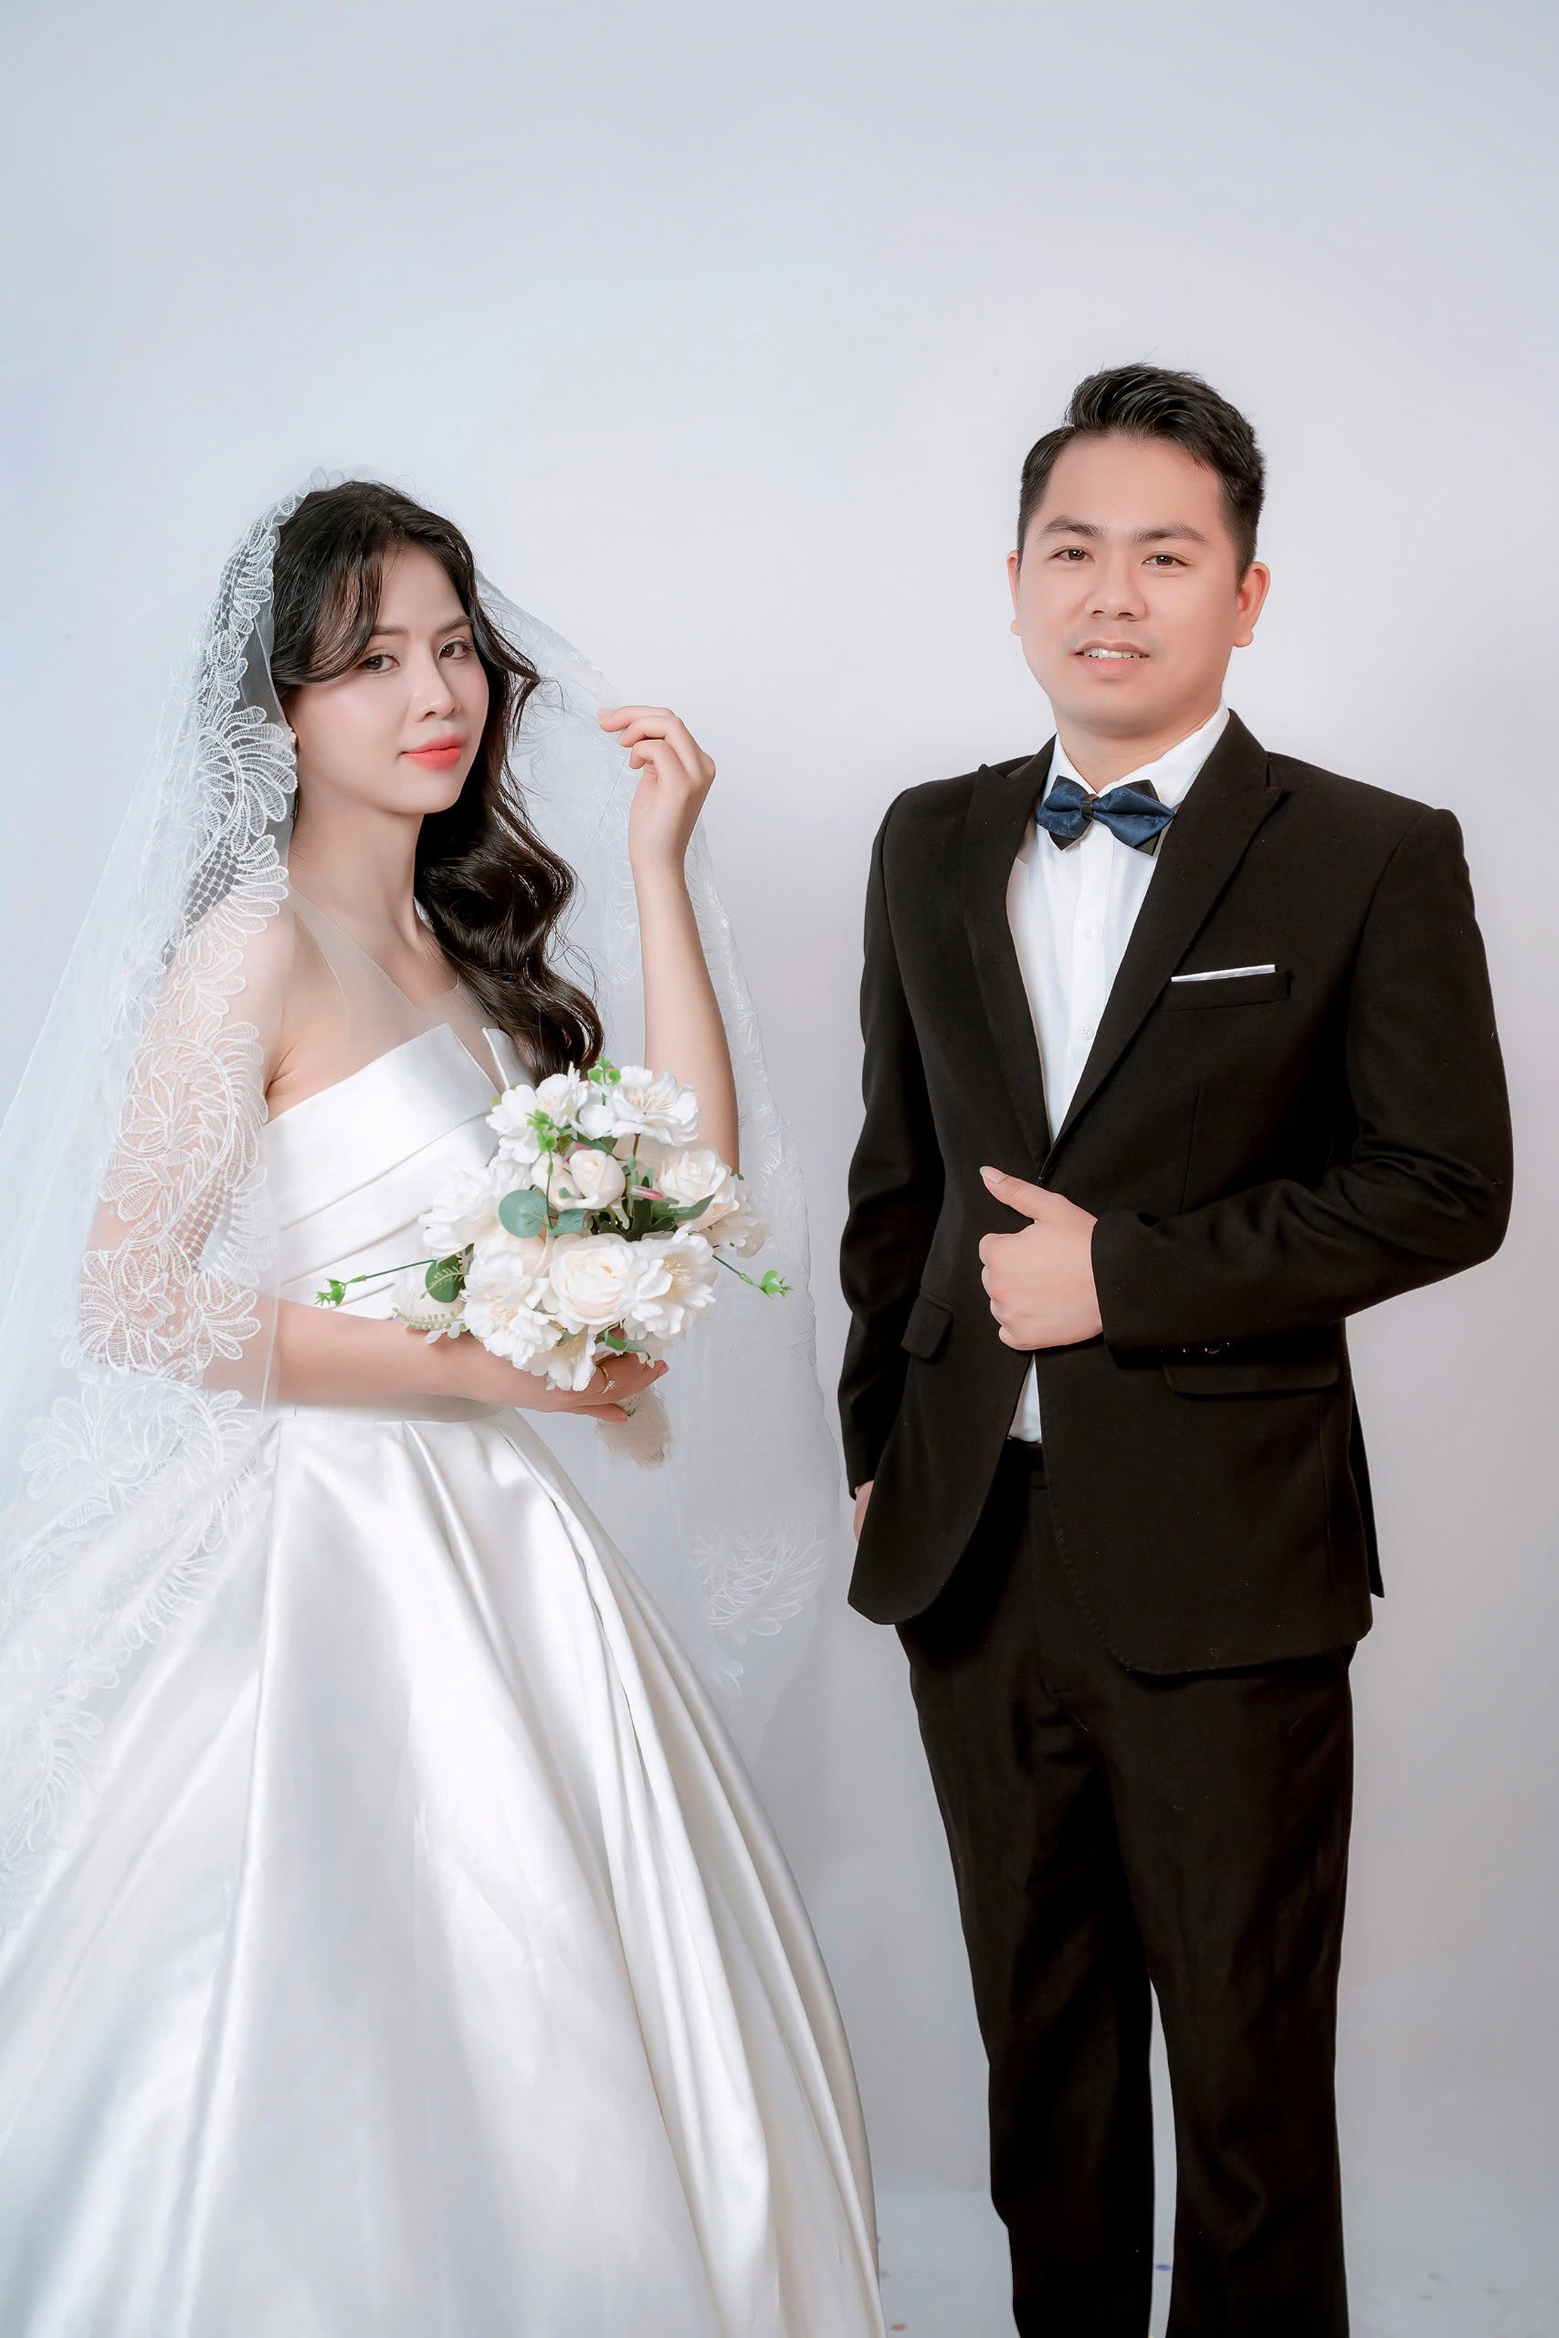
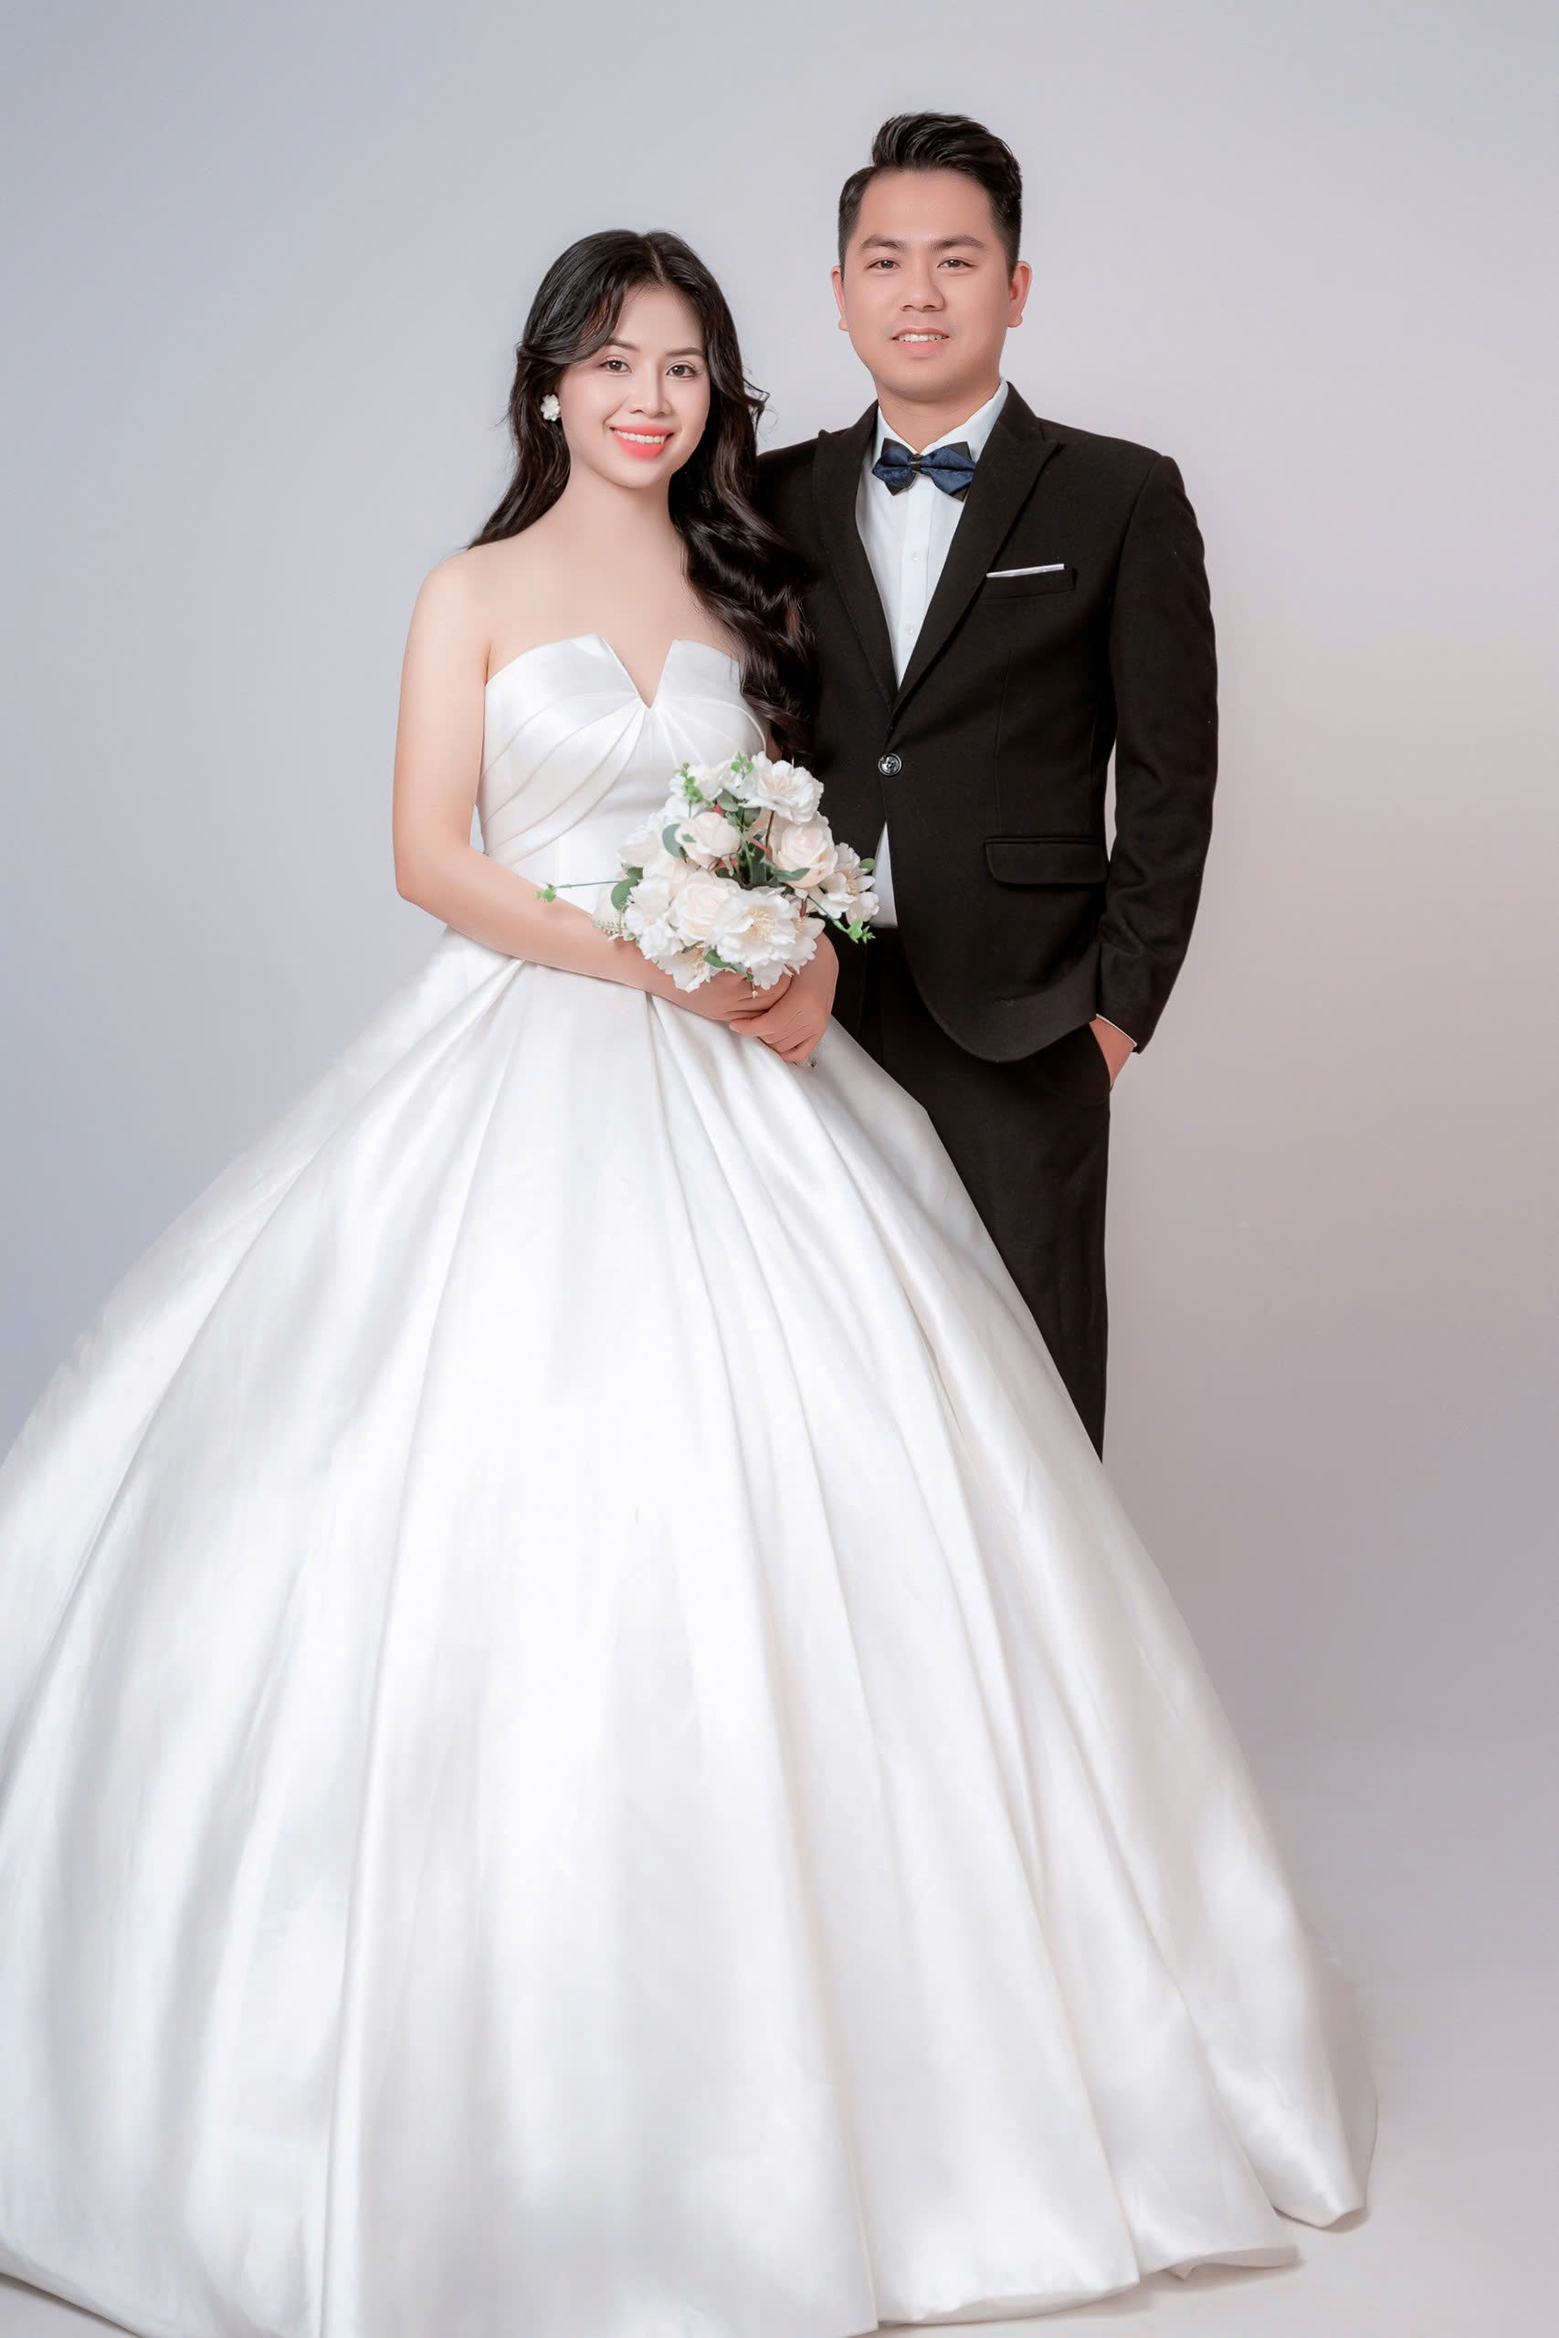
love

diff --git a/index.html b/index.html
@@ -3114,10 +3114,10 @@
                 z-index: null;
             }
             #w-593k3hdo .image-background {
-                width: 650.4194053208137px;
-                height: 907.2519561815335px;
-                top: 0px;
-                left: -58px;
+                width: 585.4194053208137px;
+                height: 878.2519561815335px;
+                top: -76px;
+                left: -34px;
                 background: center center/ cover no-repeat content-box border-box url("img/intro.jpg");
             }
             #w-593k3hdo .image-background-compare {
@@ -5136,7 +5136,7 @@
                         <div id="w-dqvmzi6o" class="com-text-block p-absolute is-animation">
                             <div class="text-block">
                                 <h2 class="text-block-css full-width">
-                                    THỨ HAI - 17H30<br>
+                                    THỨ BẢY - 17H30<br>
                                 </h2>
                             </div>
                         </div>
@@ -5152,7 +5152,7 @@
                         </div>
                         <div id="w-fohw3jt3" class="com-text-block p-absolute is-animation">
                             <div class="text-block">
-                                <h2 class="text-block-css full-width">06.01.2025</h2>
+                                <h2 class="text-block-css full-width">04.01.2025</h2>
                             </div>
                         </div>
                     </div>
@@ -5208,7 +5208,7 @@
                         </div>
                         <div id="w-p8vk7651" class="com-text-block p-absolute is-animation">
                             <div class="text-block">
-                                <p class="text-block-css full-width">Trúc Linh</p>
+                                <p class="text-block-css full-width">Kiều Trang</p>
                             </div>
                         </div>
                         <div id="w-pxhqsvgl" class="com-text-block p-absolute is-animation">
@@ -5271,7 +5271,7 @@
                         <div id="w-s6jip16j" class="com-text-block p-absolute is-animation">
                             <div class="text-block">
                                 <p class="text-block-css full-width">
-                                    Vào Lúc <span style="font-weight: bold;">17H30 | THỨ HAI</span>
+                                    Vào Lúc <span style="font-weight: bold;">17H30 | THỨ BẢY</span>
                                 </p>
                             </div>
                         </div>
@@ -5293,7 +5293,7 @@
                         <div id="w-14mlbpng" class="com-text-block p-absolute is-animation">
                             <div class="text-block">
                                 <p class="text-block-css full-width">
-                                    6<br>
+                                    4<br>
                                 </p>
                             </div>
                         </div>
@@ -5638,7 +5638,7 @@
         }
     }
     .container button{
-        margin-top: 121%;
+        margin-top: 142%;
     }
 </style>
             <div id="w-__popup_default__" class="d-none popup-center">
@@ -6072,7 +6072,7 @@
                             "type": "text-block",
                             "specials": {
                                 "tag": "h2",
-                                "text": "THỨ 7 - 11h00<br>"
+                                "text": "THỨ 7 - 17h30<br>"
                             },
                             "id": "dqvmzi6o",
                             "desktop": {
@@ -6626,7 +6626,7 @@
                             "type": "text-block",
                             "specials": {
                                 "tag": "p",
-                                "text": "Vào Lúc <span style=\"font-weight: bold;\">17H30 | THỨ 2</span>"
+                                "text": "Vào Lúc <span style=\"font-weight: bold;\">17H30 | THỨ 7</span>"
                             },
                             "id": "s6jip16j",
                             "desktop": {
